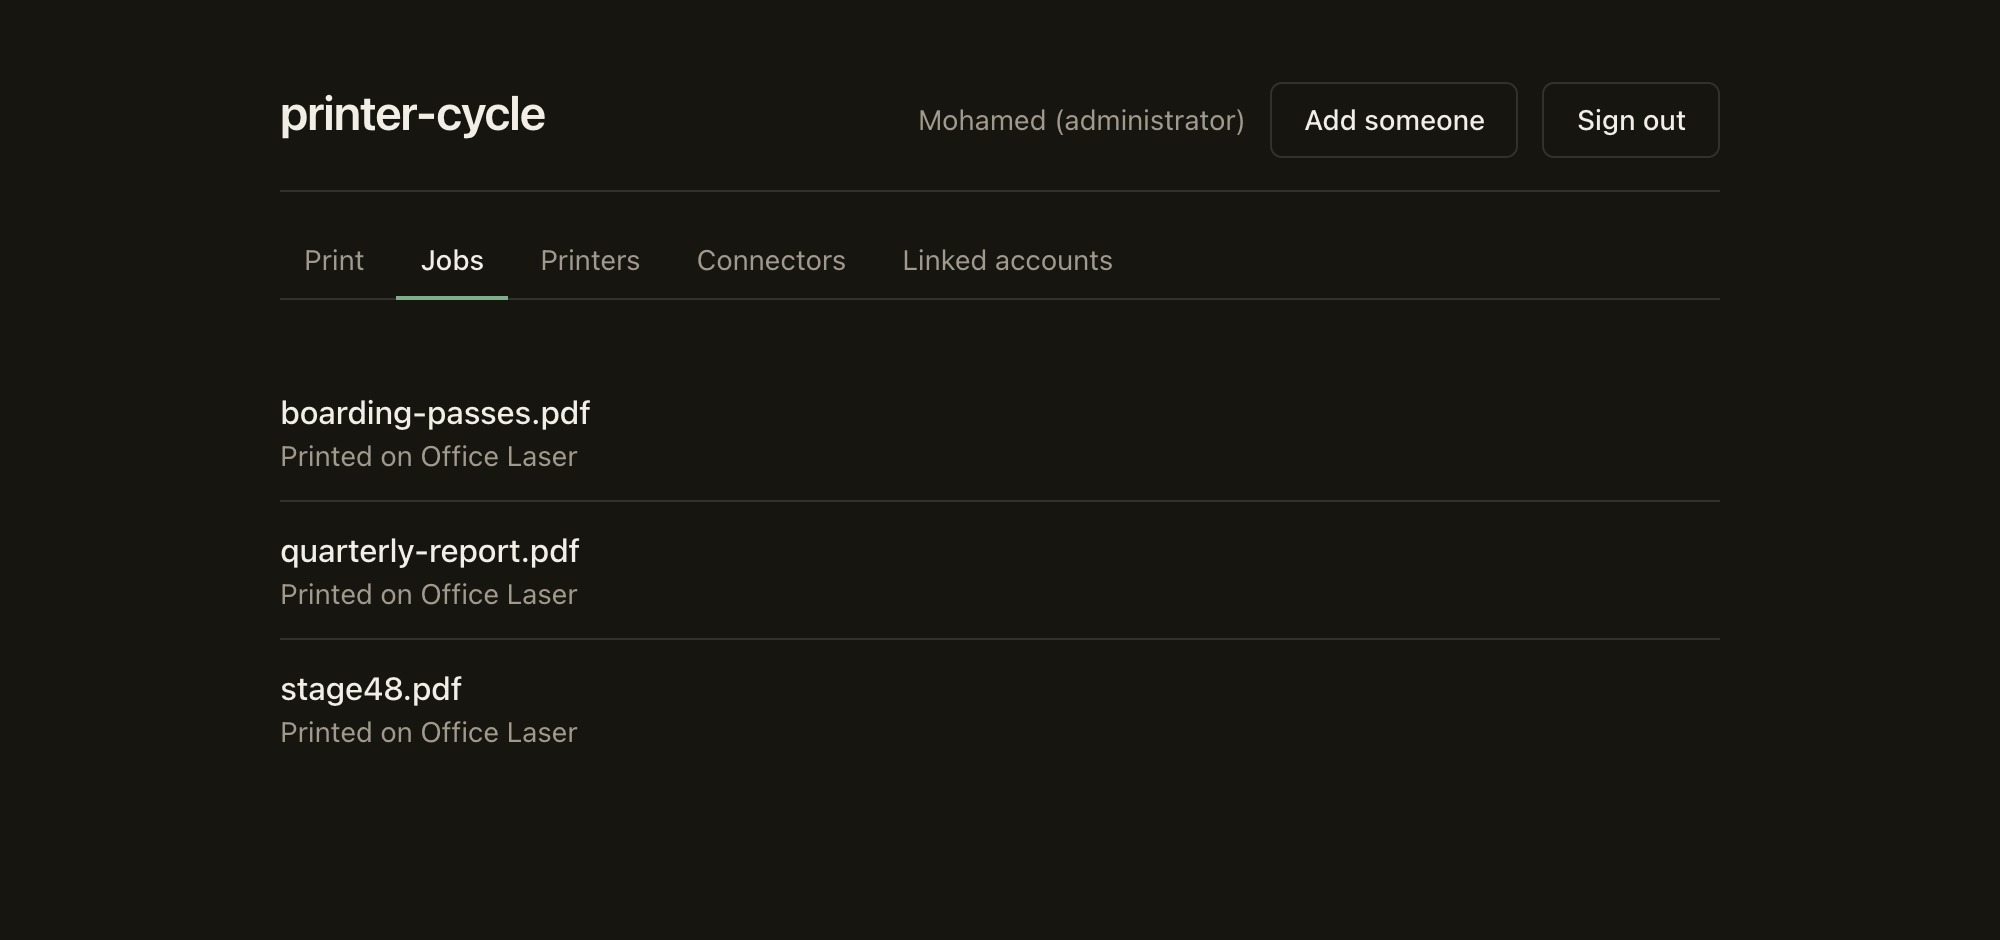
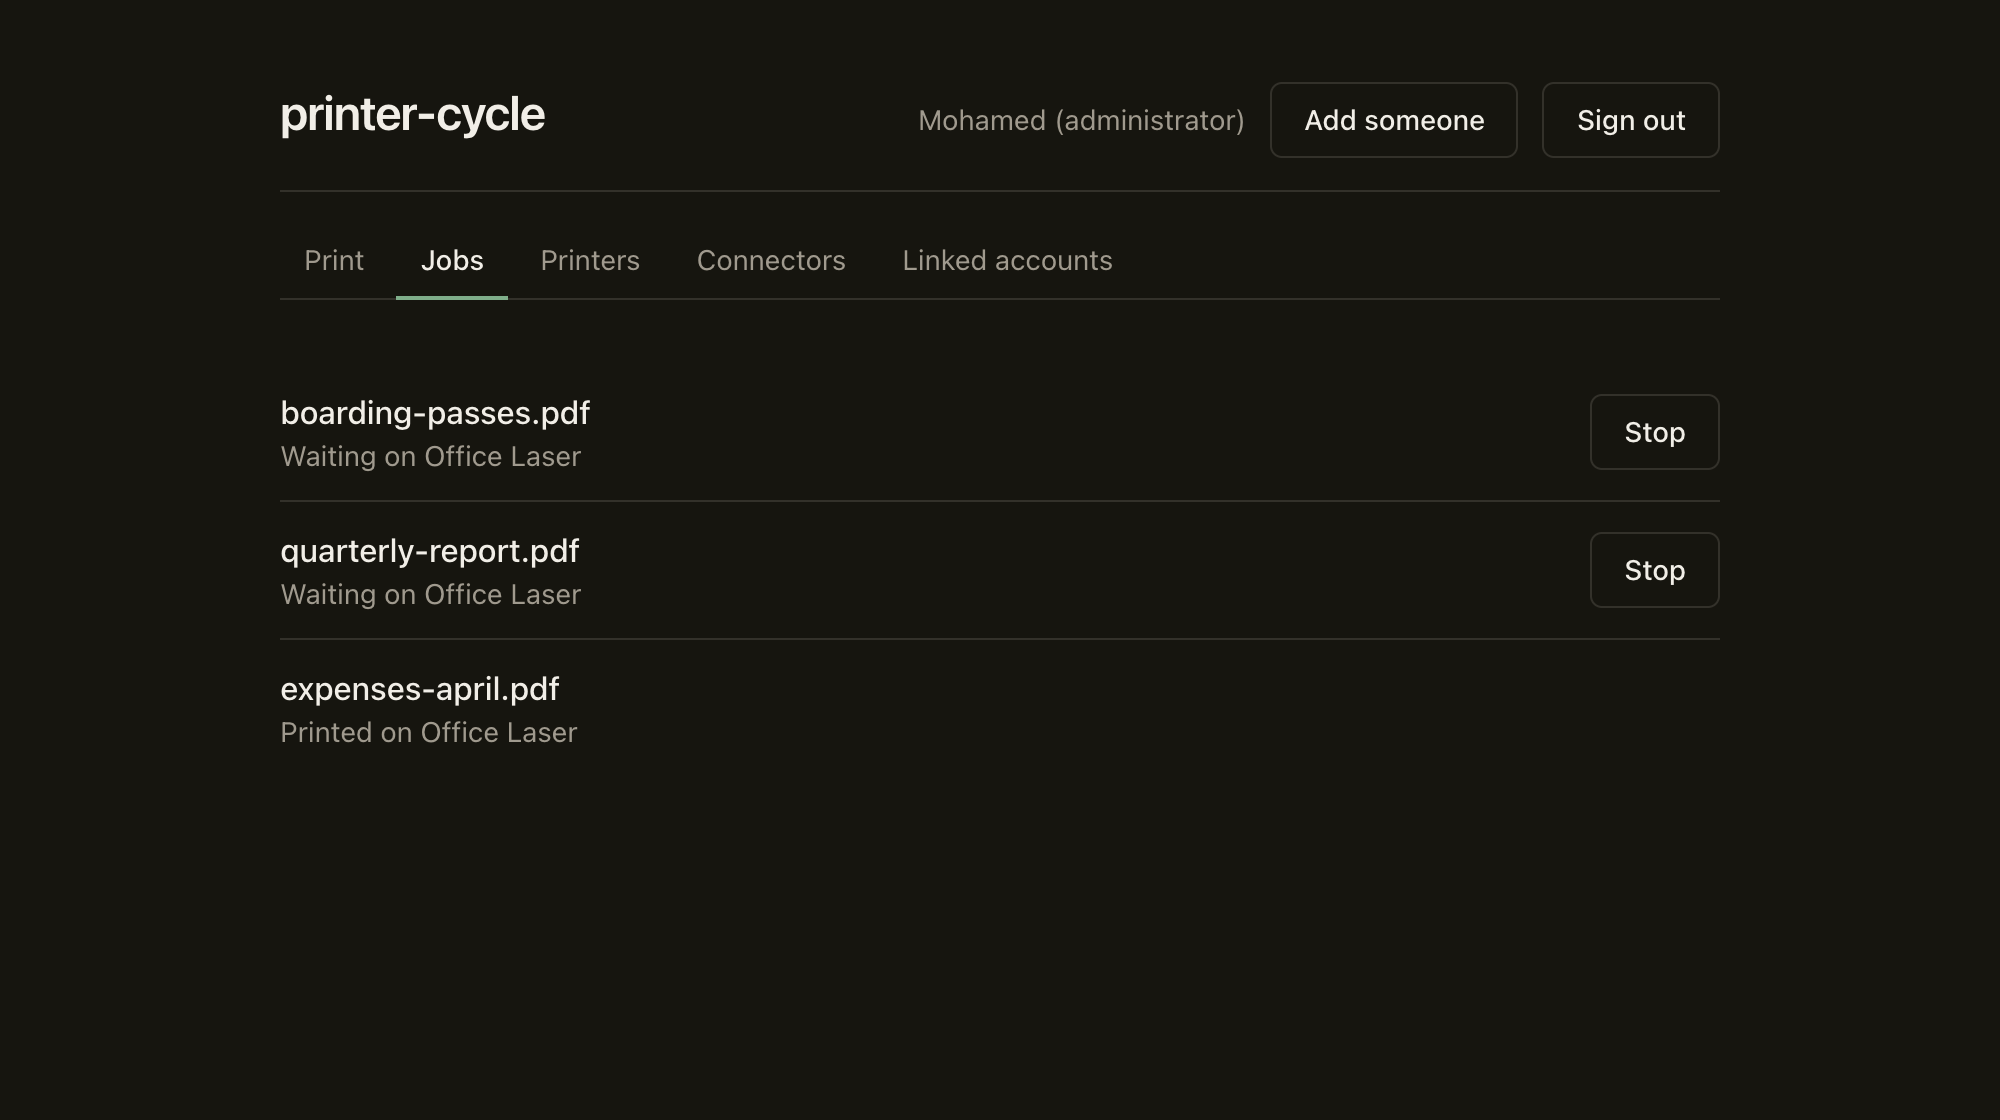
screenshots: retake the jobs shot live, add connectors, hide the self switch
The jobs screenshot was taken after both documents had finished, so it showed
two "Printed" rows rather than live status. Retaken with the queue held, so two
jobs wait with their Stop buttons above one that has printed.

Added a connectors screenshot, taken against examples/hello-printer rather than
a mock: invited, enrolled, refused for being off, switched on, registered. The
Greeting field in it is drawn from a schema the dashboard has never seen. A
fabricated "Telegram" connector would have implied one ships, and none does.

Taking it found a bug. The dashboard lists itself and drew a Turn off button on
its own card, but core has refused a connector switching itself off since the
effect would be immediate and the way back in would be a database edit by hand.
That button could only ever produce an error.

Fixed in core rather than the client: connectors.list now reports is_self on the
caller's own entry. Hardcoding id === "dashboard" in TypeScript would have
worked and been wrong, because which connector is asking is core's fact, and a
second interface would have got the wrong answer.

262 tests pass, integration suite green.

diff --git a/web/src/screens/Connectors.tsx b/web/src/screens/Connectors.tsx
@@ -109,17 +109,25 @@ export function Connectors() {
                   <p className="mt-0.5 text-sm text-muted">{describe(connector)}</p>
                 </div>
 
-                <Button
-                  variant="plain"
-                  onClick={() => toggle(connector)}
-                  disabled={switching === connector.id}
-                >
-                  {switching === connector.id
-                    ? "Working"
-                    : connector.enabled
-                      ? "Turn off"
-                      : "Turn on"}
-                </Button>
+                {/*
+                  No switch for this dashboard's own entry. Core refuses to let
+                  a connector switch itself off, since the refusal would arrive
+                  after the interface had already gone, so offering the button
+                  only ever produces an error message.
+                */}
+                {connector.is_self ? null : (
+                  <Button
+                    variant="plain"
+                    onClick={() => toggle(connector)}
+                    disabled={switching === connector.id}
+                  >
+                    {switching === connector.id
+                      ? "Working"
+                      : connector.enabled
+                        ? "Turn off"
+                        : "Turn on"}
+                  </Button>
+                )}
               </div>
 
               {connector.identity === "none" ? (
@@ -356,6 +364,11 @@ function Invite({
  * crashed or has not been started.
  */
 function describe(connector: Connector): string {
+  // Said plainly for this dashboard's own entry, because a card with no switch
+  // reads as broken unless the reason is on it. It also answers the question
+  // the page raises by listing the dashboard at all: yes, this is the thing you
+  // are looking at, and it holds no privilege the others do not.
+  if (connector.is_self) return "On, connected. This is the page you are on.";
   if (!connector.enabled) return "Turned off";
   if (!connector.enrolled) return "On, waiting to be enrolled";
   return connector.connected ? "On, connected" : "On, not running";

diff --git a/web/src/api.ts b/web/src/api.ts
@@ -100,6 +100,9 @@ export type Connector = {
   settings_schema: SettingField[];
   settings: Record<string, unknown>;
 
+  /** True for the connector this dashboard is, which core will not let it switch off. */
+  is_self?: boolean;
+
   /**
    * Who this connector's jobs belong to when it cannot say who is printing.
    *

diff --git a/internal/protocol/settings_test.go b/internal/protocol/settings_test.go
@@ -316,3 +316,60 @@ func TestSwitchingAConnectorNeedsTheManageScope(t *testing.T) {
 		t.Fatal("switching a connector was allowed with only the read scope")
 	}
 }
+
+// A connector is told which entry in the list is itself.
+//
+// Core refuses to let a connector switch itself off, so an interface that
+// cannot tell which entry is its own draws a button that can only ever produce
+// an error. The dashboard is a connector and appears in its own list, so this
+// is every page load rather than an edge case.
+func TestAConnectorIsToldWhichEntryIsItself(t *testing.T) {
+	url, db := testServer(t)
+
+	dashboard := authedClient(t, url, db, "dashboard", []string{
+		store.ScopeConnectorsRead, store.ScopeConnectorsManage,
+	})
+	telegram := authedClient(t, url, db, "telegram", []string{store.ScopeJobsSubmit})
+	registerTelegram(t, telegram)
+
+	resp := dashboard.call("connectors.list", nil)
+	if resp.Error != nil {
+		t.Fatal(resp.Error)
+	}
+
+	var listed struct {
+		Connectors []struct {
+			ID   string `json:"id"`
+			Self bool   `json:"is_self"`
+		} `json:"connectors"`
+	}
+	if err := json.Unmarshal(resp.Result, &listed); err != nil {
+		t.Fatal(err)
+	}
+
+	var seen int
+	for _, connector := range listed.Connectors {
+		if want := connector.ID == "dashboard"; connector.Self != want {
+			t.Errorf("%s: is_self %v, want %v", connector.ID, connector.Self, want)
+		}
+		if connector.Self {
+			seen++
+		}
+	}
+	if seen != 1 {
+		t.Fatalf("%d connectors claimed to be the caller, want exactly 1", seen)
+	}
+
+	// The field is worth reporting only because of what it predicts, so check
+	// the prediction rather than trusting the flag.
+	if resp := dashboard.call("connectors.setEnabled", map[string]any{
+		"connector_id": "dashboard", "enabled": false,
+	}); resp.Error == nil {
+		t.Error("a connector switched itself off")
+	}
+	if resp := dashboard.call("connectors.setEnabled", map[string]any{
+		"connector_id": "telegram", "enabled": false,
+	}); resp.Error != nil {
+		t.Errorf("switching off a different connector: %v", resp.Error)
+	}
+}

diff --git a/internal/protocol/settings.go b/internal/protocol/settings.go
@@ -40,6 +40,19 @@ type connectorView struct {
 	SettingsSchema store.SettingsSchema `json:"settings_schema"`
 	Settings       map[string]any       `json:"settings"`
 
+	// Self marks the connector holding this connection.
+	//
+	// Reported because core refuses to let a connector switch itself off, and an
+	// interface that cannot tell which entry is its own draws a button that can
+	// only ever produce an error. The dashboard is a connector and appears in
+	// its own list, so this is not a rare case, it is every time the page loads.
+	//
+	// Not hardcoded as "dashboard" on the client, because which connector is
+	// asking is core's fact and nothing else's. A second interface, or a
+	// connector that lists its neighbours, gets the right answer without
+	// knowing what it was named.
+	Self bool `json:"is_self,omitempty"`
+
 	// FallbackUser is who this connector's jobs belong to when it cannot say
 	// who is printing. Only meaningful for a connector declaring
 	// identity "none", and empty until an administrator chooses.
@@ -68,6 +81,7 @@ func (c *conn) connectorsList(ctx context.Context) (any, error) {
 	}
 
 	connected := c.server.connectedIDs()
+	self := c.authenticated()
 
 	out := make([]connectorView, 0, len(connectors))
 	for _, connector := range connectors {
@@ -96,6 +110,7 @@ func (c *conn) connectorsList(ctx context.Context) (any, error) {
 			Enabled:        connector.Enabled,
 			Enrolled:       connector.Enrolled(),
 			Connected:      connected[connector.ID],
+			Self:           connector.ID == self.ID,
 			Scopes:         scopes,
 			SettingsSchema: schema,
 			Settings:       settings,

diff --git a/PLAN.md b/PLAN.md
@@ -2215,7 +2215,31 @@ device id is shown on the Printers page, which it is not.
 
 ### Stage 76: Screenshots
 - The pairing flow, the print page, live job status.
-- **Status:** todo
+- **Status:** done.
+- Three shots existed from Stage 71. Two were kept, one was wrong and one was missing.
+- **The jobs shot was not live job status.** It was taken after both documents had finished, so it
+  showed two "Printed" rows: a screenshot of the least interesting moment. Retaken with the CUPS
+  queue held (`cupsdisable`) so two jobs sit in "Waiting on Office Laser" with their Stop buttons,
+  above one that has printed. That is the state a person actually looks at this page in.
+- **Nothing showed the connectors page**, which is where the architecture is visible rather than
+  merely claimed. Added, and taken against the real `examples/hello-printer` rather than a mock: the
+  invite was issued, the example enrolled, was refused for being switched off, was switched on, and
+  registered its manifest. The "Greeting" field in the shot is drawn from a schema the dashboard has
+  never seen. Using the real example rather than inventing a plausible connector matters, because a
+  screenshot of a "Telegram" connector would imply one ships, and none does.
+- **The screenshot found a bug, which is the second time this has happened.** The dashboard lists
+  itself and drew a "Turn off" button on its own card. Core has refused a connector switching itself
+  off since Stage 39 (the way back in would be editing the database by hand), so that button could
+  only ever produce an error message. Fixed at the source rather than in the client: `connectors.list`
+  now reports `is_self` on the caller's own entry, and the dashboard hides the switch and says "This
+  is the page you are on" instead. Hardcoding `id === "dashboard"` in TypeScript would have worked
+  and been wrong, since which connector is asking is core's fact.
+- The test asserts the prediction rather than the flag: exactly one entry claims to be the caller,
+  switching that one off is refused, and switching a different one off succeeds.
+- Retaken once more after rebuilding at `v0.1.0`, because the first attempt captured a version string
+  of `v0.1.0-1-g9ec6c41-dirty`. A build artefact in a launch screenshot is a small thing that reads
+  as carelessness.
+- `make check` clean, 262 tests pass, integration suite green.
 
 ### Stage 77: Landing page
 - The pitch, screenshots, install one-liner, link to the repo.

diff --git a/PROTOCOL.md b/PROTOCOL.md
@@ -773,7 +773,11 @@ included; each appears as `{"secret":true,"set":true}` so the page can show that
 without showing what it is.
 
 Each entry also carries `connected`, so the page can distinguish a connector that is installed from
-one that is actually running.
+one that is actually running, and `is_self` on the one entry describing the caller. That last exists
+because core refuses to let a connector switch itself off, and an interface that cannot tell which
+entry is its own offers a button that can only ever fail. It is core's fact rather than the client's:
+a second interface, or a connector listing its neighbours, gets the right answer without knowing what
+it was named.
 
 **connectors.setSetting** changes one value. Requires `connectors.manage`.
 

diff --git a/README.md b/README.md
@@ -52,7 +52,13 @@ printer configured for double-sided stays that way:
 
 Job status arrives as it happens, pushed rather than polled:
 
-![The jobs page](docs/screenshots/jobs.png)
+![The jobs page, two documents waiting and one printed](docs/screenshots/jobs.png)
+
+Connectors configure themselves. The settings below are drawn from a schema the connector declared at
+startup, and the dashboard contains no code that knows anything about it. The dashboard is in the
+list too, because it is a connector like any other:
+
+![The connectors page](docs/screenshots/connectors.png)
 
 ## Installing
 
